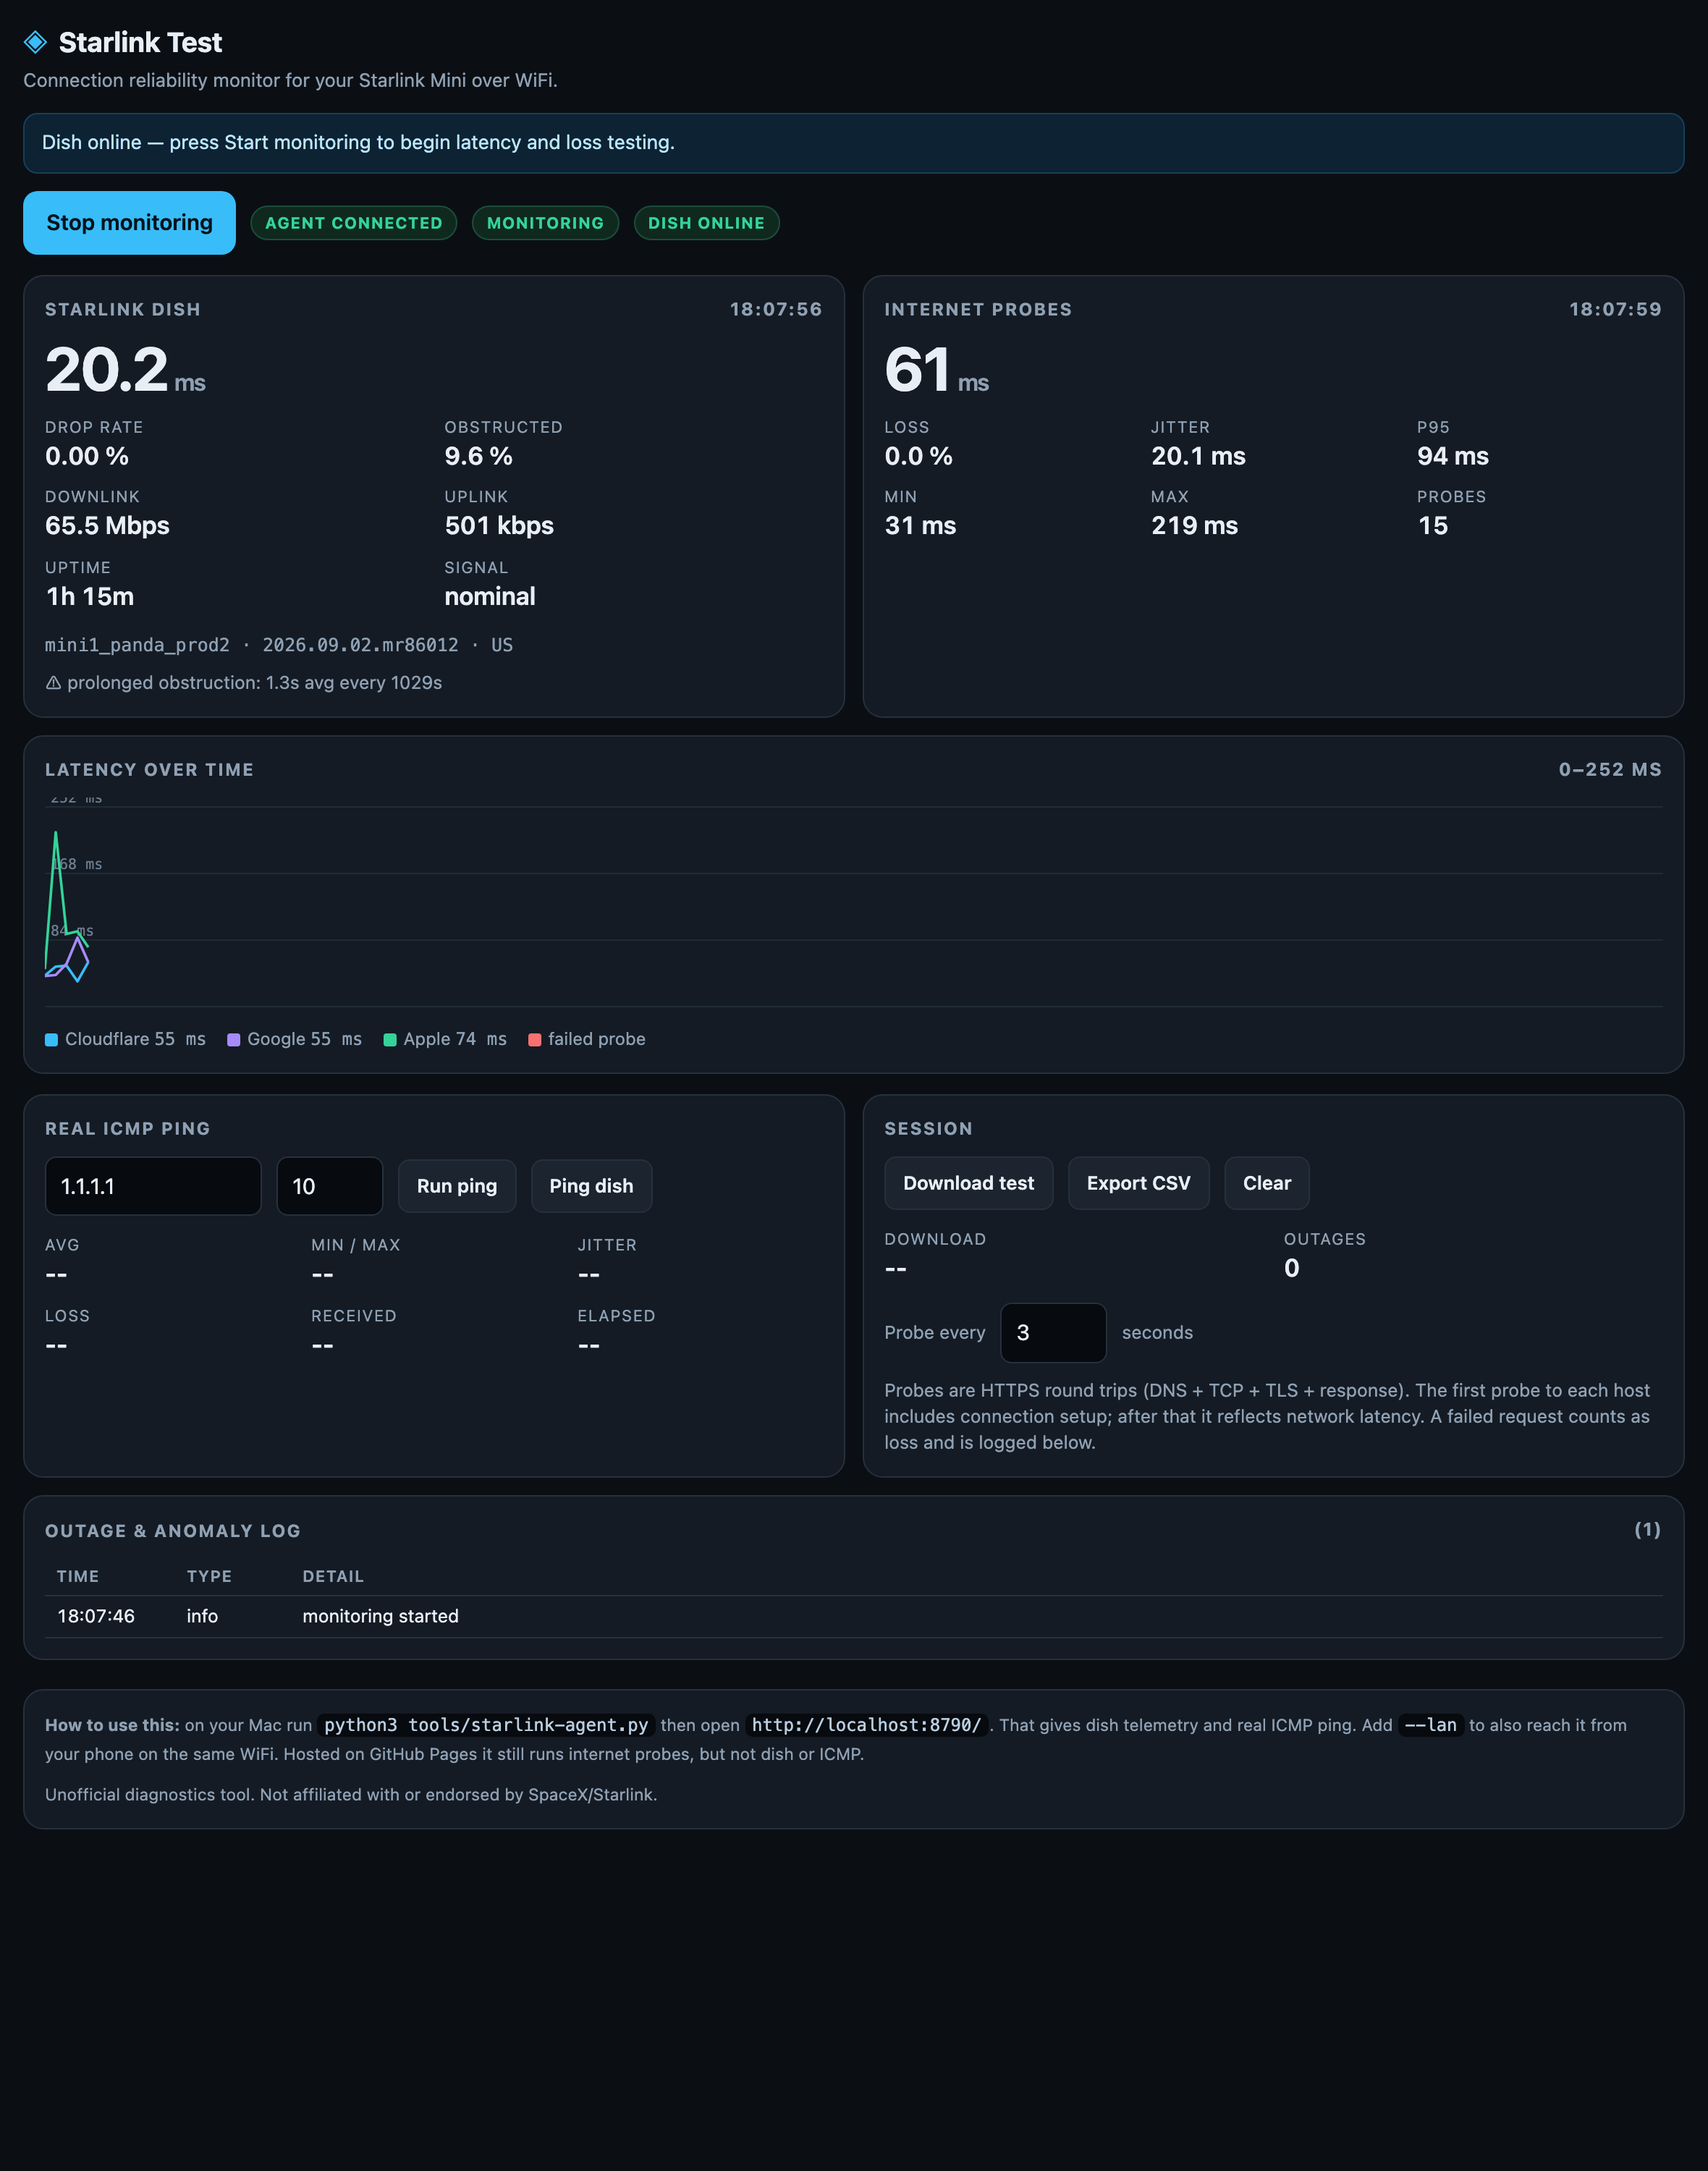
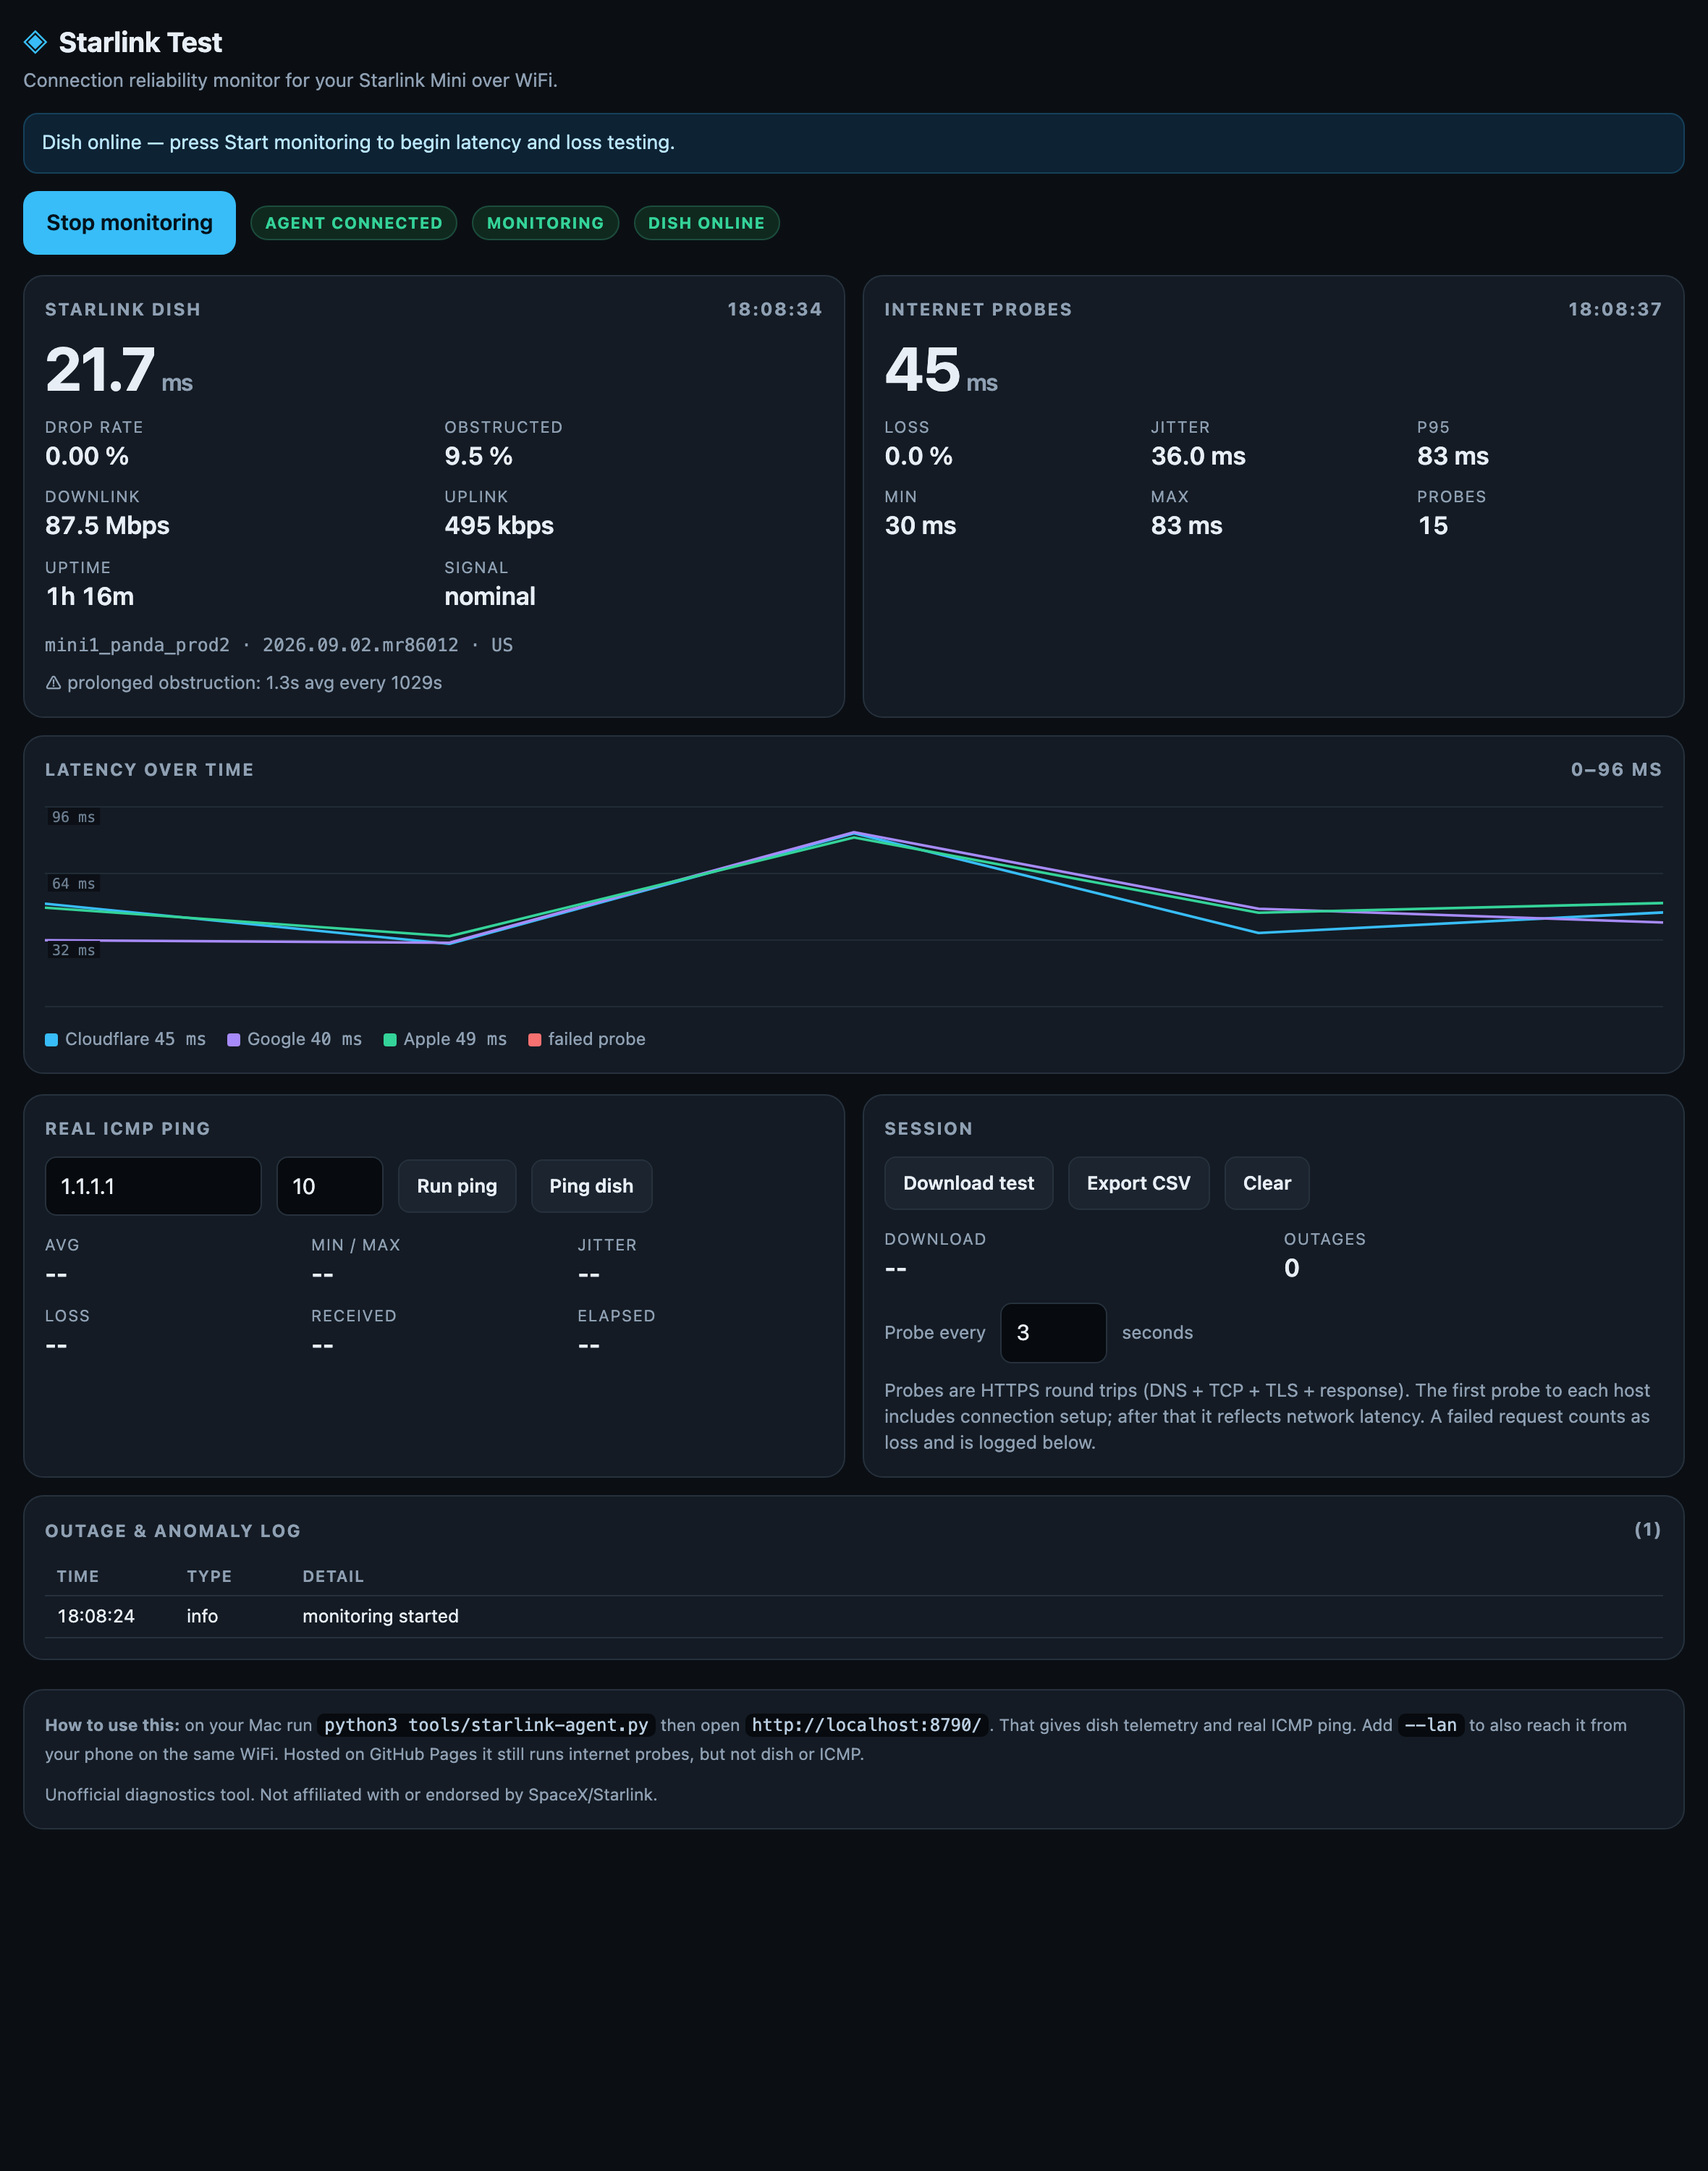
Starlink Test: add screenshot to the README

diff --git a/starlink/README.md b/starlink/README.md
@@ -1,5 +1,7 @@
 # Starlink Test
 
+![Starlink Test app showing live dish telemetry, latency probes and ICMP ping](screenshot.png)
+
 A connection reliability monitor for a Starlink Mini on WiFi. Live dish telemetry,
 internet latency/jitter/loss probing, real ICMP ping, outage logging, CSV export.
 
